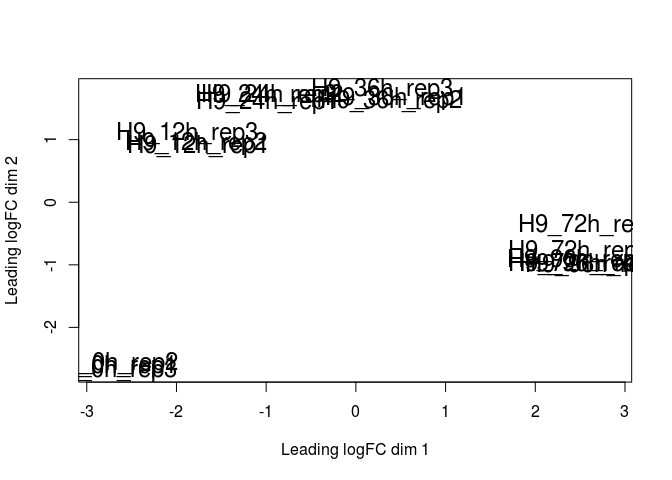
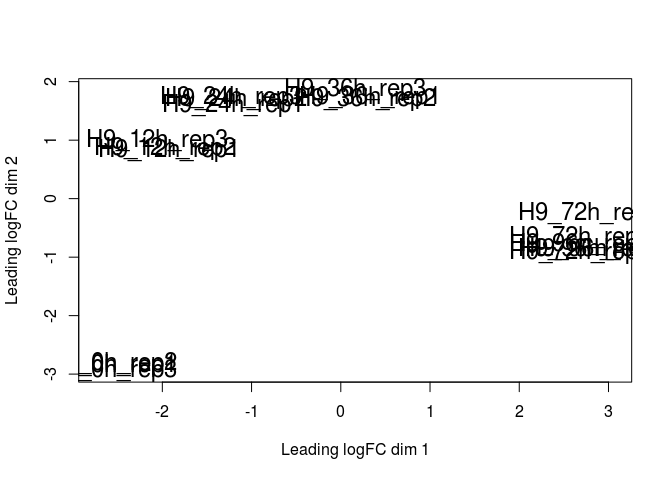
Updated GSE75748 (fixed voom analysis)

diff --git a/analysis_of_public_data/GSE75748/GSE75748_data_analysis.md b/analysis_of_public_data/GSE75748/GSE75748_data_analysis.md
@@ -155,7 +155,7 @@ str(metadata)
 
 Our primary goal here is to analyze bulk\_time\_course data (each stage with the next stage, step-by-step).
 
-Deleting low-expressed genes (CPM &gt; 1). We don't want to filter out a gene that is highly expressed in one group, but lowly expressed in another, because that gene may be biologically interesting! So, we identify the smallest number of samples that could be part of one group (3), and make sure we don't remove genes that are expressed in more than that number:
+Deleting low-expressed genes (CPM &gt; 3). We don't want to filter out a gene that is highly expressed in one group, but lowly expressed in another, because that gene may be biologically interesting! So, we identify the smallest number of samples that could be part of one group (3), and make sure we don't remove genes that are expressed in more than that number:
 
 ``` r
 #first let's create a edgeR DGElist object
@@ -165,17 +165,22 @@ rows <- rownames(bulk_time_course_ec)
 bulk_time_course_ec <- apply(bulk_time_course_ec, 2, as.double)
 rownames(bulk_time_course_ec) <- rows
 
+#for testing, delete after
+#bulk_time_course_ec <- bulk_time_course_ec[,-c(1:3)]
+
 DGE_bulk_time_course_ec <- DGEList(counts = bulk_time_course_ec) 
 
 cpm <- cpm(DGE_bulk_time_course_ec)
-keep.exprs <-rowSums(cpm > 1) >= 3
+keep.exprs <-rowSums(cpm > 5) >= 3
 
 DGE_bulk_time_course_ec <- DGE_bulk_time_course_ec[keep.exprs,,]
 
 dim(DGE_bulk_time_course_ec)
 ```
 
-    ## [1] 14333    18
+    ## [1] 11942    18
+
+Very useful insight about [the filtering step](https://support.bioconductor.org/p/77178/).
 
 Our data here is in gene expected counts that were calculated using RSEM 1.2.3 (according to GEO query). Thus, we need to perform a library size normalization using edgeR:
 
@@ -185,11 +190,11 @@ normalized_factors_expression <- calcNormFactors(DGE_bulk_time_course_ec, method
 normalized_factors_expression$samples$norm.factors
 ```
 
-    ##  [1] 0.8442666 0.8716866 0.8044489 1.0858852 1.1035056 1.0820767 1.0468473
-    ##  [8] 1.0447433 1.0476810 1.0021610 1.0003328 1.0034298 0.9439126 1.0600265
-    ## [15] 1.0124795 1.0272051 1.0362534 1.0480844
+    ##  [1] 0.8428422 0.8703352 0.8118465 1.0859853 1.1004586 1.0886113 1.0490378
+    ##  [8] 1.0540197 1.0514873 1.0052039 1.0037277 1.0121749 0.9378989 1.0534128
+    ## [15] 1.0056914 1.0215541 1.0297469 1.0400207
 
-For this dataset the effect of TMM-normalisation is mild, as evident in the magnitude of the scaling factors, which are all relatively close to 1.
+For this dataset the effect of TMM-normalisation is mild, as evident in the magnitude of the scaling factors, which are all relatively close to 1 (except samples that are from single cell data, 0h time point).
 
 Let's look at distribution of values:
 
@@ -207,6 +212,8 @@ Let's now perform RNA-seq analysis with limma, using only time factor variable (
 
 ``` r
 metadata_time <- metadata[,-3]
+
+metadata_time$samples <- as.character(metadata_time$samples)
 metadata_time %>% kable()
 ```
 
@@ -319,7 +326,7 @@ contrastMatrix %>% kable()
 
 ``` r
 # keep the fit around as we will need to it for looking at other contrasts later 
-time_course_Fit <- lmFit(cleaned_log_cpm_df, designMatrix)
+time_course_Fit <- lmFit(after_voom_cpm, designMatrix)
 
 # fit the contrast using the original fitted model
 contrastFit <- contrasts.fit(time_course_Fit, contrastMatrix)
@@ -327,23 +334,16 @@ contrastFit <- contrasts.fit(time_course_Fit, contrastMatrix)
 # apply eBayes() for moderated statistics
 contrastFitEb <- eBayes(contrastFit)
 
-contrastGenes <- topTable(contrastFitEb)
+contrastGenes <- topTable(contrastFitEb, number = Inf, p.value = 0.05)
 
-contrastGenes %>% kable()
+plotSA(contrastFitEb)
 ```
 
-|          |       v12v0|      v24v12|      v36v24|      v72v36|      v96v72|   AveExpr|         F|  P.Value|  adj.P.Val|
-|----------|-----------:|-----------:|-----------:|-----------:|-----------:|---------:|---------:|--------:|----------:|
-| GRM4     |   2.2089230|   1.1734871|  -2.4766781|  -6.0614660|   0.0292857|  2.485032|  977.3394|        0|          0|
-| EOMES    |   8.8302459|   0.6724103|   0.1751554|   0.7446285|  -0.2371836|  7.096943|  842.7476|        0|          0|
-| RSPO3    |  -0.8314077|   5.7547933|   2.2045844|   0.4417324|   0.0925639|  3.268075|  765.7165|        0|          0|
-| WLS      |   6.4954736|   2.2393209|   0.1029077|   0.6515993|  -0.0697174|  6.297953|  707.2975|        0|          0|
-| HTRA1    |   2.3781906|  -0.7974383|  -0.2921808|   6.8048875|   0.0139365|  4.578772|  687.9387|        0|          0|
-| SERPINE2 |   3.5305349|   2.4714634|   0.5893767|   0.0998826|  -0.1530383|  8.917734|  663.6921|        0|          0|
-| TBX3     |   5.6716824|   2.6807795|   1.3694251|  -2.8127483|  -0.2857683|  5.072513|  623.4500|        0|          0|
-| DKK1     |   3.7353694|   3.9606430|   0.9531446|  -0.1500933|  -0.3256291|  4.984929|  596.5328|        0|          0|
-| ZEB2     |   4.2841122|   1.5376152|   1.9141175|  -0.1566615|  -0.3736645|  4.436634|  554.0512|        0|          0|
-| MMP14    |   5.4107705|   1.2799127|   1.6240900|   0.9572361|  -0.8326844|  5.685395|  528.9915|        0|          0|
+![](GSE75748_data_analysis_files/figure-markdown_github/unnamed-chunk-21-1.png)
+
+``` r
+#contrastGenes %>% kable()
+```
 
 ``` r
 cutoff <- 5e-02 #0.05 p value
@@ -353,9 +353,9 @@ summary(time_course_res)
 ```
 
     ##        v12v0 v24v12 v36v24 v72v36 v96v72
-    ## Down    2894     94    253   1840    116
-    ## NotSig  8417  14019  13729  10733  14090
-    ## Up      3022    220    351   1760    127
+    ## Down    2625    148    271   1732    129
+    ## NotSig  6515  11563  11293   8542  11657
+    ## Up      2802    231    378   1668    156
 
 We see there are different number of genes up and down regulated at each stage.
 
@@ -372,11 +372,11 @@ head(hits3) %>% kable()
 
 | gene   |  v12v0|  v24v12|  v36v24|  v72v36|  v96v72|
 |:-------|------:|-------:|-------:|-------:|-------:|
-| ABHD6  |      0|       1|       1|      -1|       0|
+| AADAT  |      0|       0|       1|       0|       0|
+| ABHD6  |      0|       0|       1|      -1|       0|
 | ABLIM1 |      0|       0|       1|      -1|       0|
 | ABTB2  |      0|       0|       1|       0|       0|
 | ACSS3  |      0|       1|       1|       0|       0|
-| ACVRL1 |     -1|       0|       1|       1|       0|
 | ADAM12 |      0|       0|       1|       0|       1|
 
 ``` r
@@ -531,6 +531,7 @@ Now let's look at key DE markers CXCR4, SOX17, HNF1B, KIT, and KRT19:
 
 ``` r
 #sample_genes <- c("FOXA2")
+#HNF1B is filtered as low expressed gene (cpm < 5)
 sample_genes <- c("CXCR4", "SOX17", "HNF1B", "KIT", "KRT19")
 plotGenes(sample_genes, cleaned_log_cpm_df, metadata)
 ```
@@ -554,7 +555,7 @@ allDEGenes <- topTable(contrastFitEb, number = Inf, p.value = 0.05, lfc = 1)
 nrow(allDEGenes)
 ```
 
-    ## [1] 8817
+    ## [1] 7886
 
 According to Decide tests we have this number of DE genes (at different time stages):
 
@@ -564,7 +565,7 @@ de_genes_at_stages <- time_course_res[de_genes_rows,]
 nrow(de_genes_at_stages)
 ```
 
-    ## [1] 8090
+    ## [1] 7480
 
 We will check both numbers.
 
@@ -656,7 +657,7 @@ genesReference <- topTable(contrastFitEb, number = Inf, p.value = 0.05, lfc = 1)
 dim(genesReference)
 ```
 
-    ## [1] 8817    9
+    ## [1] 7886    9
 
 ``` r
 all_de_genes_ref <- rownames(genesReference)
@@ -727,7 +728,7 @@ topGenesAge <- topTable(expressionFitBayes_age, number = Inf, p.value = 0.05)#, 
 nrow(topGenesAge)
 ```
 
-    ## [1] 5968
+    ## [1] 5326
 
 ``` r
 head(topGenesAge) %>% kable()
@@ -735,12 +736,12 @@ head(topGenesAge) %>% kable()
 
 |         |       logFC|   AveExpr|          t|  P.Value|  adj.P.Val|         B|
 |---------|-----------:|---------:|----------:|--------:|----------:|---------:|
-| CYP26A1 |   0.0994021|  6.154112|   19.99919|        0|          0|  22.44215|
-| AP1M2   |  -0.0918790|  2.899708|  -19.37828|        0|          0|  21.87479|
-| CRABP1  |  -0.0741114|  2.894697|  -19.18767|        0|          0|  21.69703|
-| CDH3    |  -0.0601161|  4.131228|  -17.73228|        0|          0|  20.28048|
-| COL3A1  |   0.1272345|  2.570885|   17.27234|        0|          0|  19.80961|
-| ESRP1   |  -0.0942202|  4.839029|  -16.55618|        0|          0|  19.05243|
+| CYP26A1 |   0.0995670|  6.154112|   20.25512|        0|          0|  22.66588|
+| AP1M2   |  -0.0917140|  2.899708|  -19.61839|        0|          0|  22.08642|
+| CRABP1  |  -0.0739464|  2.894697|  -19.44200|        0|          0|  21.92265|
+| CDH3    |  -0.0599511|  4.131228|  -18.15966|        0|          0|  20.68725|
+| COL3A1  |   0.1273994|  2.570885|   17.34050|        0|          0|  19.85395|
+| ESRP1   |  -0.0940553|  4.839029|  -16.65435|        0|          0|  19.12717|
 
 ``` r
 sample_genes <- rownames(topGenesAge)[1:6]
@@ -807,9 +808,9 @@ summary(time_course_res)
 ```
 
     ##        v12v0 v24v12 v36v24 v72v36 v96v72
-    ## Down    2894     94    253   1840    116
-    ## NotSig  8417  14019  13729  10733  14090
-    ## Up      3022    220    351   1760    127
+    ## Down    2625    148    271   1732    129
+    ## NotSig  6515  11563  11293   8542  11657
+    ## Up      2802    231    378   1668    156
 
 ``` r
 paper_res <- list(`12v0` = table(paper_de_genes$`12v0`), `24v12` = table(paper_de_genes$`24v12`), `36v24` = table(paper_de_genes$`36v24`),
@@ -850,11 +851,11 @@ head(hits3) %>% kable()
 
 | gene   |  v12v0|  v24v12|  v36v24|  v72v36|  v96v72|
 |:-------|------:|-------:|-------:|-------:|-------:|
-| ABHD6  |      0|       1|       1|      -1|       0|
+| AADAT  |      0|       0|       1|       0|       0|
+| ABHD6  |      0|       0|       1|      -1|       0|
 | ABLIM1 |      0|       0|       1|      -1|       0|
 | ABTB2  |      0|       0|       1|       0|       0|
 | ACSS3  |      0|       1|       1|       0|       0|
-| ACVRL1 |     -1|       0|       1|       1|       0|
 | ADAM12 |      0|       0|       1|       0|       1|
 
 ``` r
@@ -871,7 +872,7 @@ s <- setdiff(paper_up_36v24$Gene, hits2$gene)
 length(s)
 ```
 
-    ## [1] 941
+    ## [1] 946
 
 ``` r
 #plot genes that are DE in paper at 36 to 24 but not in my results
